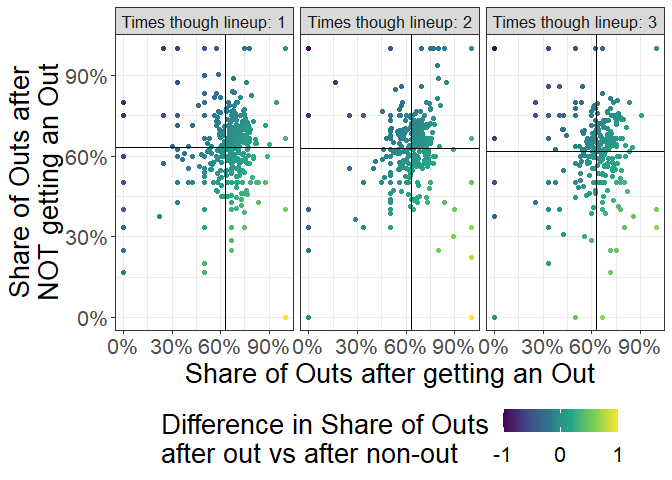
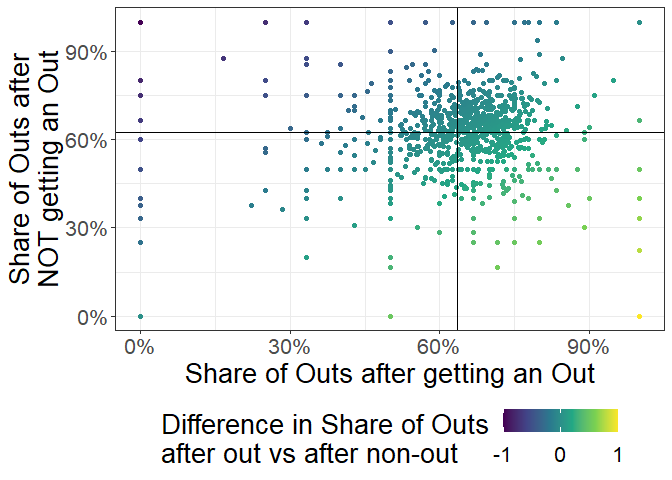
update

diff --git a/docs/_posts/2022-09-06-switching-pitchers-and-reducing-home-runs.md b/docs/_posts/2022-09-06-switching-pitchers-and-reducing-home-runs.md
@@ -92,44 +92,6 @@ current at bat.
 
 Looking only at the differences:
 
-    plot_dt = dcast(dt[starting_pitcher_dummy == 1 & pitch_seq == 1 & !is.na(last_batter_result_out) ,
-       .(mean_out_current = mean(result_out)),
-       by = .( times_through_lineup, last_batter_result_out, matchup.pitcher.fullName)],
-       matchup.pitcher.fullName + times_through_lineup ~ last_batter_result_out,
-       value.var = "mean_out_current"
-    )[, .(matchup.pitcher.fullName, times_through_lineup, last_batter_result_out = `1`,last_batter_result_nonout=`0`,
-          last_out_minus_last_nonout = `1` - `0`)]
-    sum_plot_dt_1= plot_dt[times_through_lineup < 4, .(mean = mean(last_out_minus_last_nonout, na.rm=T)), by = .(times_through_lineup)]
-
-
-    ggdraw(align_legend(
-    ggplot(plot_dt[times_through_lineup < 4]) + 
-      geom_density(aes(x=100*last_out_minus_last_nonout, color = as.factor(times_through_lineup))) + 
-      theme_bw() + 
-      theme(text = element_text(size = 20), 
-            axis.text = element_text(size = 15),
-            legend.position = c(0.77,0.75),
-            legend.background = element_blank(),
-            legend.direction = "horizontal",
-            legend.title = element_text(size = 20),
-            strip.text = element_text(size = 10)) + 
-      xlab("Percentage Point Difference in\nShare of at bats resulting in an out\n(excluding sac fly and sac bunt)") + 
-      ylab("Density") + 
-      scale_x_continuous(breaks = seq(-90,90,30)) + 
-      geom_vline(data = sum_plot_dt_1,
-                 aes(xintercept = mean, color = as.factor(times_through_lineup))) + 
-      scale_color_discrete(name="Times Through Lineup", guide = guide_legend(title.position = "top")) + 
-      geom_text(aes(x=-60,y=0.025,label=paste0("Difference in\nShare of ABs resulting in an out averages:\n",
-                                            "First time through lineup: ",
-                                            100*round(sum_plot_dt_1[times_through_lineup ==1]$mean,3),
-                                            "pp\nSecond time through lineup: ",
-                                            100*round(sum_plot_dt_1[times_through_lineup ==2]$mean,3),
-                                            "pp\nThird time through lineup: ",
-                                            100*round(sum_plot_dt_1[times_through_lineup ==3]$mean,3),
-                                            "pp"
-                                            ))) 
-    )) 
-
     ## Warning: Removed 22 rows containing non-finite values (stat_density).
 
 ![](/assets/diff-1.png) The first time through the lineup, the average
@@ -154,9 +116,13 @@ proxy for what will happen on the next at bat. If a pitcher is not
 streaky it might make sense to leave him in if the last at bat was not
 an out.
 
+    ## Warning: Removed 21 rows containing missing values (geom_point).
+
+![](/assets/pitcher_ranks-1.png)
+
     ## Warning: Removed 22 rows containing missing values (geom_point).
 
-![](/assets/pitcher_ranks-1.png) This plot gives an approximation of
+![](/assets/pitcher_ranks-2.png) This plot gives an approximation of
 streakiness. The pitchers in the top right get a higher percentage of
 outs regardless of what happened on the last AB. They are consistently
 good. The pitchers in the bottom left quadrant on the other hand, are
@@ -265,11 +231,6 @@ spike magnitude. Just regress the indicator for hit or walk on a full
 set of “batters since pitcher final AB” indicators.
 `Non-Out ~ \Sum \beta_{\tau} 1(batter since = \tau) + \epsilon`.
 
-    for (X in seq(-15,15)){
-      print(X)
-      dt[, paste0("bs_",X) := ifelse(batters_since_starter_max_batter == X, 1, 0)]
-    }
-
     ## [1] -15
     ## [1] -14
     ## [1] -13
@@ -302,33 +263,9 @@ set of “batters since pitcher final AB” indicators.
     ## [1] 14
     ## [1] 15
 
-    dt[, quantiles_pasted := paste0(quantile_out_out,"-",quantile_nonout_out)]
-    dt[, teams_pasted := paste0(home_team,"-",away_team)]
-
-    reg <- lm(result_hit_or_walk ~ 
-                  as.factor(quantiles_pasted):(`bs_-15` + `bs_-14` + `bs_-13` + `bs_-12` + `bs_-11` + `bs_-10` + `bs_-9` + `bs_-8` + `bs_-7` + `bs_-6` + 
-                                                                   `bs_-5` + `bs_-4` + `bs_-3` + `bs_-2` + #`bs_-1` + 
-                 bs_0 + bs_1 + bs_2 + bs_3 + bs_4 + bs_5 + bs_6 + bs_7 + bs_8 + bs_9 + bs_10 + bs_11 + bs_12 + bs_13 + bs_14 + bs_15) +
-                 as.factor(about.inning) + as.factor(times_through_lineup) + about.isTopInning + home_team + away_team +teams_pasted+ result.awayScore + result.homeScore + pitchNumber 
-                 ,
-               data = dt[pitch_seq == 1 & batters_since_starter_max_batter %between% c(-15,15) & 
-                ((count.outs.end < 3 & batters_since_starter_max_batter == 0) |
-                   (batters_since_starter_max_batter != 0) ) &
-                  times_through_lineup < 4 &
-                  !is.na(quantile_diff) &
-                ((home_manager_total_games > 50 & about.halfInning == "top") |
-                (away_manager_total_games > 50 & about.halfInning == "bottom")),])
-    reg_dt <- data.table(summary(reg)$coefficients)
-    reg_dt[, coefs := row.names(summary(reg)$coefficients)]
-    reg_dt[, bs := as.numeric(gsub("`","",gsub(".*?:bs_","", coefs)))]
-
     ## Warning in eval(jsub, SDenv, parent.frame()): NAs introduced by coercion
 
-    reg_dt[!is.na(bs), quantiles := gsub("as.factor.quantiles_pasted.","",gsub(":bs_.*","", coefs))]
-    reg_dt <- rbindlist(list(reg_dt, data.table(bs=rep(-1,4), quantiles = c("1-1","1-2","2-1","2-2"), Estimate = rep(0,4), `Std. Error` = rep(0,4))), fill=T)
-
-    ggplot(reg_dt[!is.na(quantiles) & bs == 0]) + 
-      geom_bar(aes(x=quantiles,y=Estimate, fill = quantiles), stat = "identity")
+    ## Warning: Ignoring unknown aesthetics: fill
 
 ![](/assets/reg-1.png)
 
